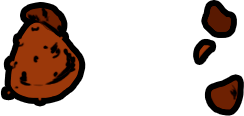
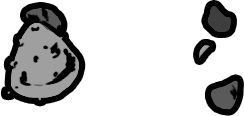
Slight mushroom script rework

diff --git a/BoneyBoi/Assets/Scripts/World/TimeShroom.cs b/BoneyBoi/Assets/Scripts/World/TimeShroom.cs
@@ -12,10 +12,13 @@ public class TimeShroom : Interactable
     static float startTime = Mathf.NegativeInfinity;
     static float maxDuration = 10.0f;
     public Interactable interactable;
+    static Color32 activeColor = new Color32(200, 150, 150, 255);
+    static Color32 deactiveColor = new Color32(100, 100, 100, 255);
 
     public AudioClip[] mushroomAudioArray;
     public AudioClip mushroomTimer;
     public AudioClip hiddenMushroomAudio;
+    public SpriteRenderer mushroomPatch;
 
     private void OnTriggerEnter2D(Collider2D collision)
     {
@@ -35,8 +38,9 @@ public class TimeShroom : Interactable
 
     void Start()
     {
-        GetComponent<SpriteRenderer>().color = new Color32(127, 127, 127, 255);
-        GetComponentInParent<SpriteRenderer>().color = new Color32(127, 127, 127, 255);
+        GetComponent<SpriteRenderer>().color = deactiveColor;
+        GetComponentInParent<SpriteRenderer>().color = deactiveColor;
+        mushroomPatch.color = deactiveColor;
     }
 
     void FixedUpdate()
@@ -44,8 +48,9 @@ public class TimeShroom : Interactable
         if (isActive && Time.time > startTime + maxDuration)
             foreach (TimeShroom shroom in timeShrooms)
             {
-                shroom.GetComponent<SpriteRenderer>().color = new Color32(127, 127, 127, 255);
-                GetComponentInParent<SpriteRenderer>().color = new Color32(127, 127, 127, 255);
+                shroom.GetComponent<SpriteRenderer>().color = deactiveColor;
+                GetComponentInParent<SpriteRenderer>().color = deactiveColor;
+                mushroomPatch.color = deactiveColor;
                 shroom.isActive = false;
                 GameObject timerObject = GameObject.Find(mushroomTimer.name.Substring(0, mushroomTimer.name.Length - 1));
                 Destroy(timerObject);
@@ -55,8 +60,9 @@ public class TimeShroom : Interactable
     public override void Interact(Creature creature)
     {
         isActive = true;
-        GetComponent<SpriteRenderer>().color = new Color32(255, 255, 255, 255);
-        GetComponentInParent<SpriteRenderer>().color = new Color32(255, 255, 255, 255);
+        GetComponent<SpriteRenderer>().color = activeColor;
+        GetComponentInParent<SpriteRenderer>().color = activeColor;
+        mushroomPatch.color = deactiveColor;
         if (Time.time > startTime + maxDuration)
             startTime = Time.time;
         bool hasDeactive = false;
